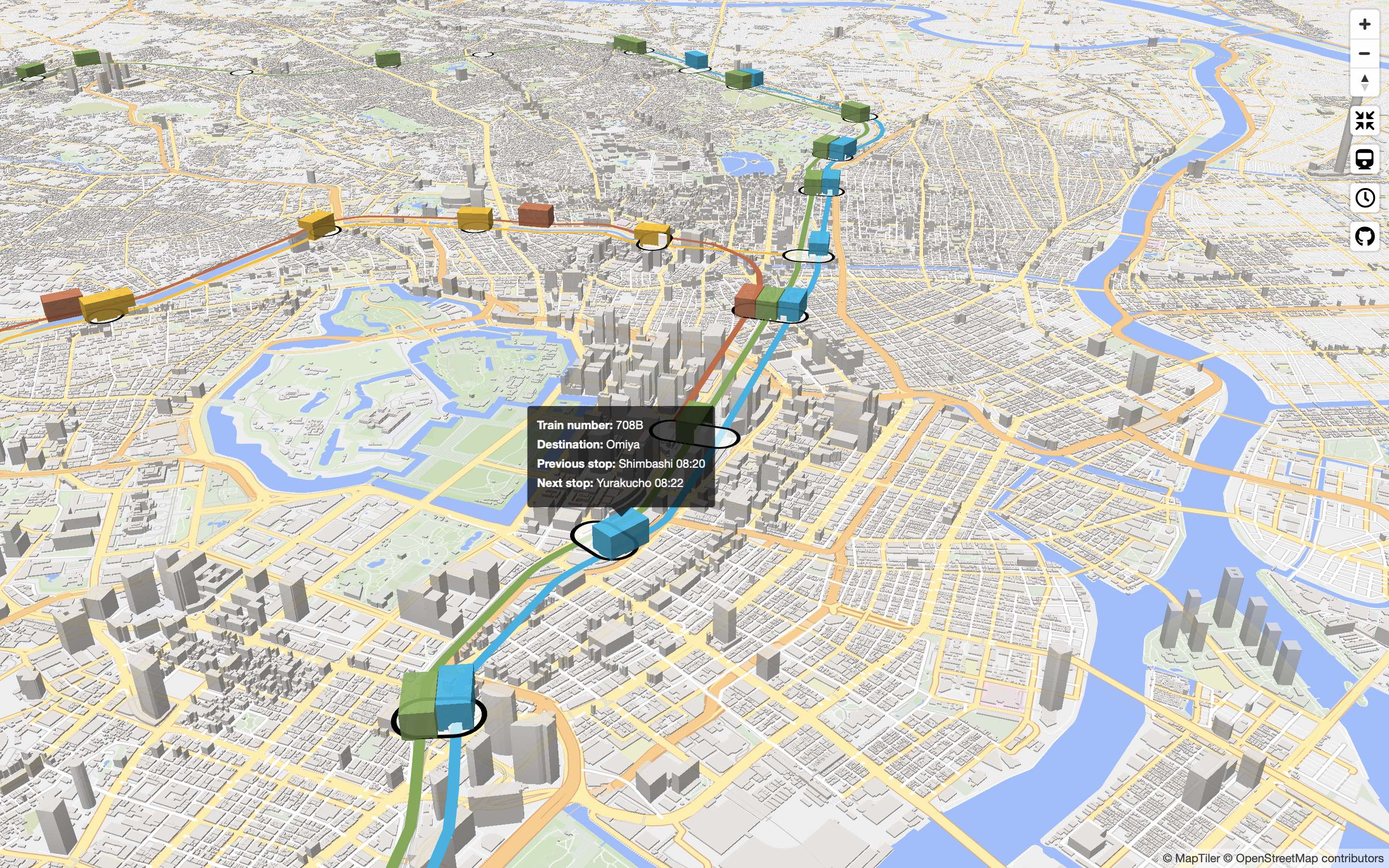
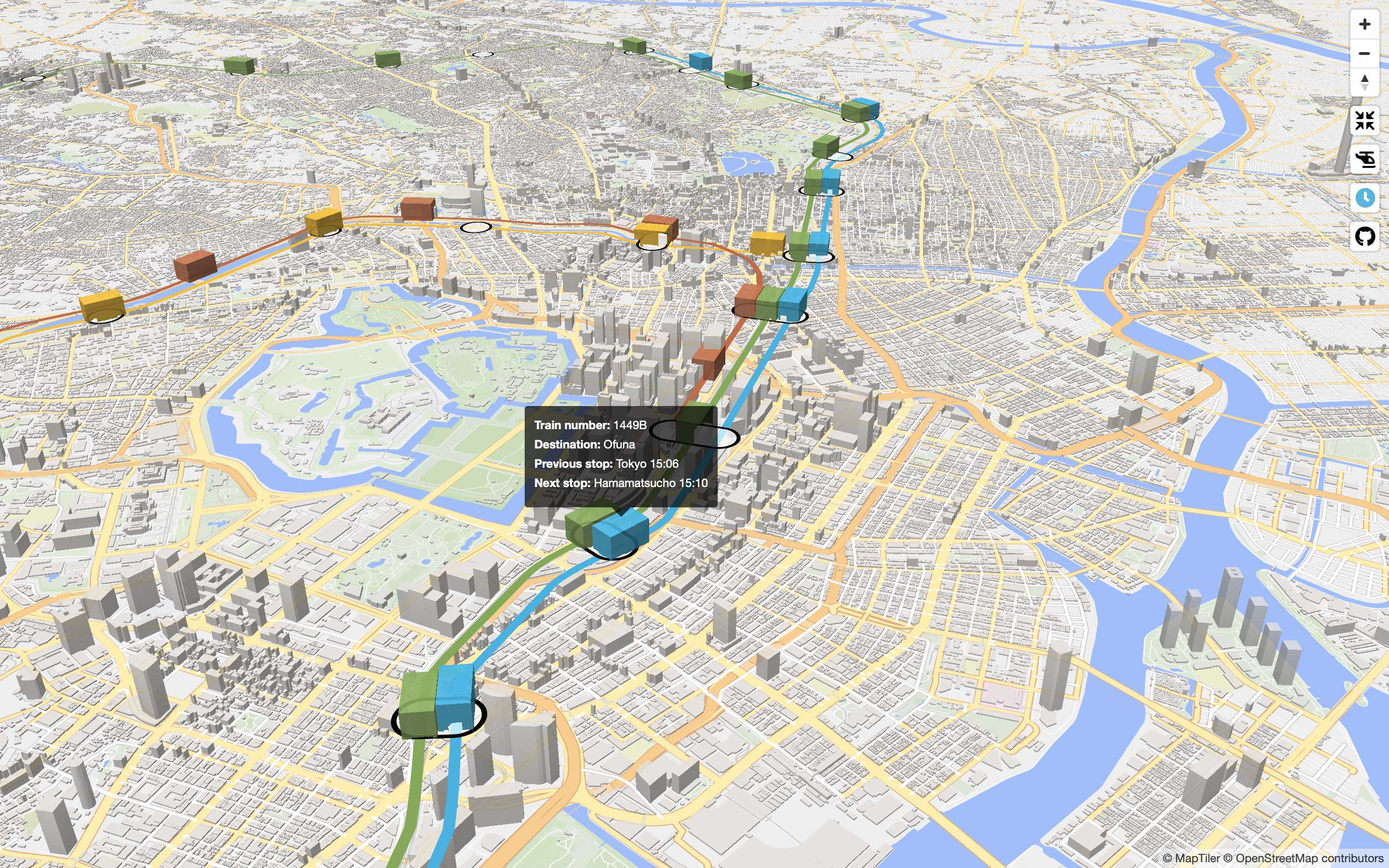
Add helicopter- and train-view tracking modes

diff --git a/js/main.js b/js/main.js
@@ -8,6 +8,7 @@ var stationLookup2 = {};
 var lineLookup = {};
 var railwayLookup = {};
 var trainLookup = {};
+var trackingMode = 'helicopter';
 var trackedCar, markedCar, trainLastRefresh;
 
 var MapboxGLButtonControl = function(options) {
@@ -323,13 +324,19 @@ map.once('styledata', function () {
 	map.addControl(control);
 
 	map.addControl(new MapboxGLButtonControl({
-		className: 'mapbox-ctrl-track',
+		className: 'mapbox-ctrl-track mapbox-ctrl-track-helicopter',
 		title: dict['track'],
-		eventHandler: function() {
-			if (trackedCar) {
-				trackedCar = undefined;
-				this.classList.remove('mapbox-ctrl-track-active');
+		eventHandler: function(event) {
+			if (trackingMode === 'helicopter') {
+				trackingMode = 'train';
+				this.classList.remove('mapbox-ctrl-track-helicopter');
+				this.classList.add('mapbox-ctrl-track-train');
+			} else {
+				trackingMode = 'helicopter';
+				this.classList.remove('mapbox-ctrl-track-train');
+				this.classList.add('mapbox-ctrl-track-helicopter');
 			}
+			event.stopPropagation();
 		}
 	}), 'top-right');
 
@@ -382,7 +389,14 @@ map.once('styledata', function () {
 		}
 	});
 
-	map.on('mouseleave', 'cars', function(e) {
+	map.on('mousemove', 'cars', function(e) {
+		if (isRealtime) {
+			markedCar = getCar(e);
+			popup.setLngLat([markedCar.properties.lat, markedCar.properties.lng])
+				.setHTML(markedCar.properties.description)
+		}
+	});
+	map.on('mouseleave', 'cars', function() {
 		map.getCanvas().style.cursor = '';
 		if (isRealtime) {
 			markedCar = undefined;
@@ -392,7 +406,17 @@ map.once('styledata', function () {
 
 	map.on('click', 'cars', function(e) {
 		trackedCar = getCar(e);
-		document.getElementsByClassName('mapbox-ctrl-track')[0].classList.add('mapbox-ctrl-track-active');
+		document.getElementsByClassName('mapbox-ctrl-track')[0]
+			.classList.add('mapbox-ctrl-track-active');
+		e.originalEvent.cancelBubble = true;
+	});
+
+	map.on('click', function(e) {
+		if (trackedCar && !e.originalEvent.cancelBubble) {
+			trackedCar = undefined;
+			document.getElementsByClassName('mapbox-ctrl-track')[0]
+				.classList.remove('mapbox-ctrl-track-active');
+		}
 	});
 
 	map.on('zoom', function() {
@@ -472,8 +496,19 @@ map.once('styledata', function () {
 		map.getSource('cars').setData(carCollection);
 		if (trackedCar) {
 			properties = trackedCar.properties;
-			map.panTo([properties.lat, properties.lng], {animate: false});
-			map.rotateTo((timestamp / 100) % 360, {animate: false});
+			if (trackingMode === 'helicopter') {
+				map.easeTo({
+					center: [properties.lat, properties.lng],
+					bearing: (timestamp / 100) % 360,
+					duration: 0
+				});
+			} else {
+				map.easeTo({
+					center: [properties.lat, properties.lng],
+					bearing: properties.bearing,
+					duration: 0
+				});
+			}
 		}
 		requestAnimationFrame(refresh);
 	}
@@ -527,9 +562,6 @@ map.once('styledata', function () {
 								+ stationLookup2[table[timetableIndex]['odpt:departureStation']]['odpt:stationTitle'][lang === 'ja' ? 'ja' : 'en'] + ' ' + table[timetableIndex]['odpt:departureTime']
 								+ '<br><strong>' + dict['next-stop'] +':</strong> '
 								+ stationLookup2[(table[timetableIndex + 1]['odpt:arrivalStation'] || table[timetableIndex + 1]['odpt:departureStation'])]['odpt:stationTitle'][lang === 'ja' ? 'ja' : 'en'] + ' ' + (table[timetableIndex + 1]['odpt:arrivalTime'] || table[timetableIndex + 1]['odpt:departureTime']);
-
-							//car.coords = turf.getCoord(p.point);
-							//car.bearing = p.bearing;
 						}, function() {
 							timetableIndex++;
 							sectionIndex = sectionIndex + direction;

diff --git a/style.css b/style.css
@@ -36,9 +36,8 @@ body {
 	width: 100%;
 }
 .mapbox-ctrl-track:before {
-	content: '\f238';
 	font-family: 'Font Awesome 5 Free';
-	font-weight: 400;
+	font-weight: 900;
 	position: absolute;
 	top: 5px;
 	left: 5px;
@@ -47,13 +46,21 @@ body {
 	color: black;
 	font-size: 21px;
 }
+.mapbox-ctrl-track-helicopter:before {
+	content: '\f533';
+	font-size: 17px;
+	top: 7px;
+}
+.mapbox-ctrl-track-train:before {
+	content: '\f238';
+}
 .mapbox-ctrl-track-active:before {
 	color: #33B5E5;
 }
 .mapbox-ctrl-realtime:before {
 	content: '\f017';
 	font-family: 'Font Awesome 5 Free';
-	font-weight: 400;
+	font-weight: 900;
 	position: absolute;
 	top: 5px;
 	left: 5px;
@@ -68,7 +75,7 @@ body {
 .mapbox-ctrl-github:before {
 	content: '\f09b';
 	font-family: 'Font Awesome 5 Brands';
-	font-weight: 400;
+	font-weight: 900;
 	position: absolute;
 	top: 5px;
 	left: 5px;
